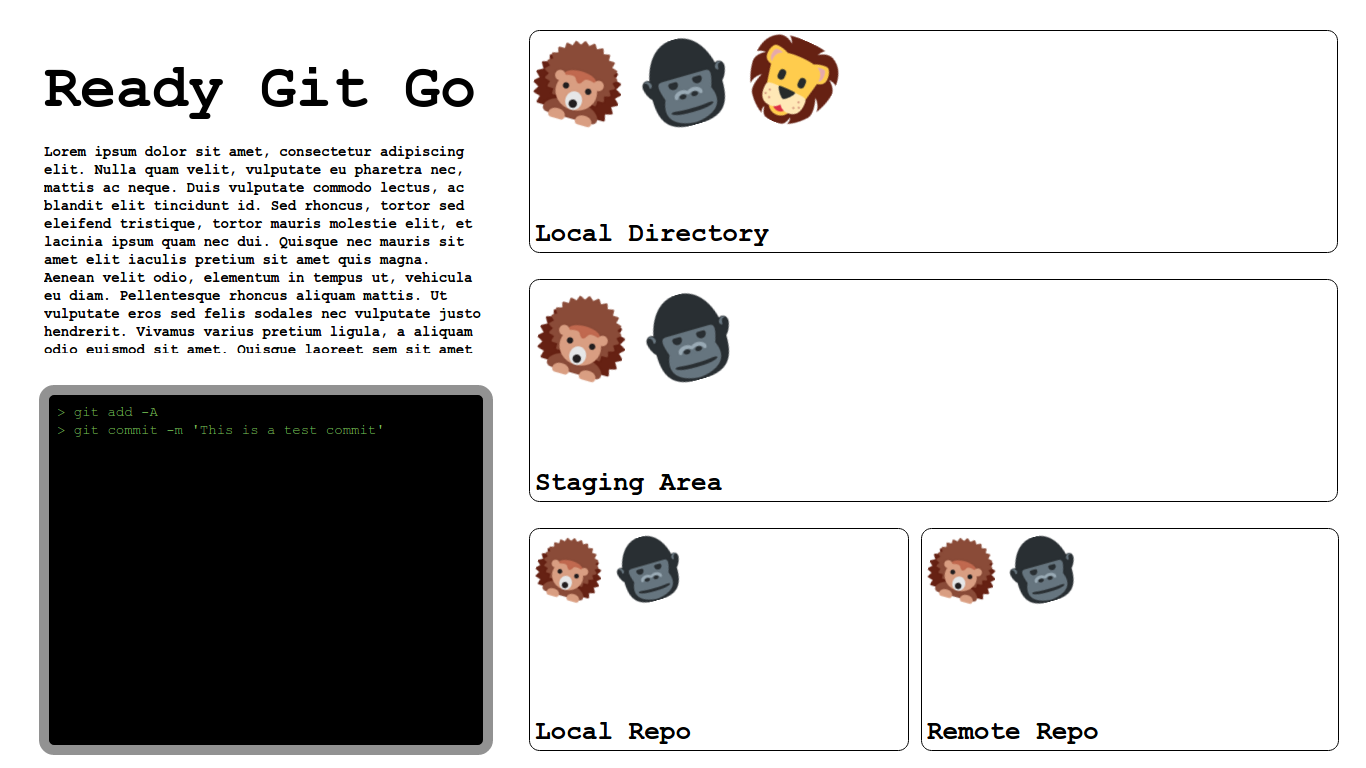
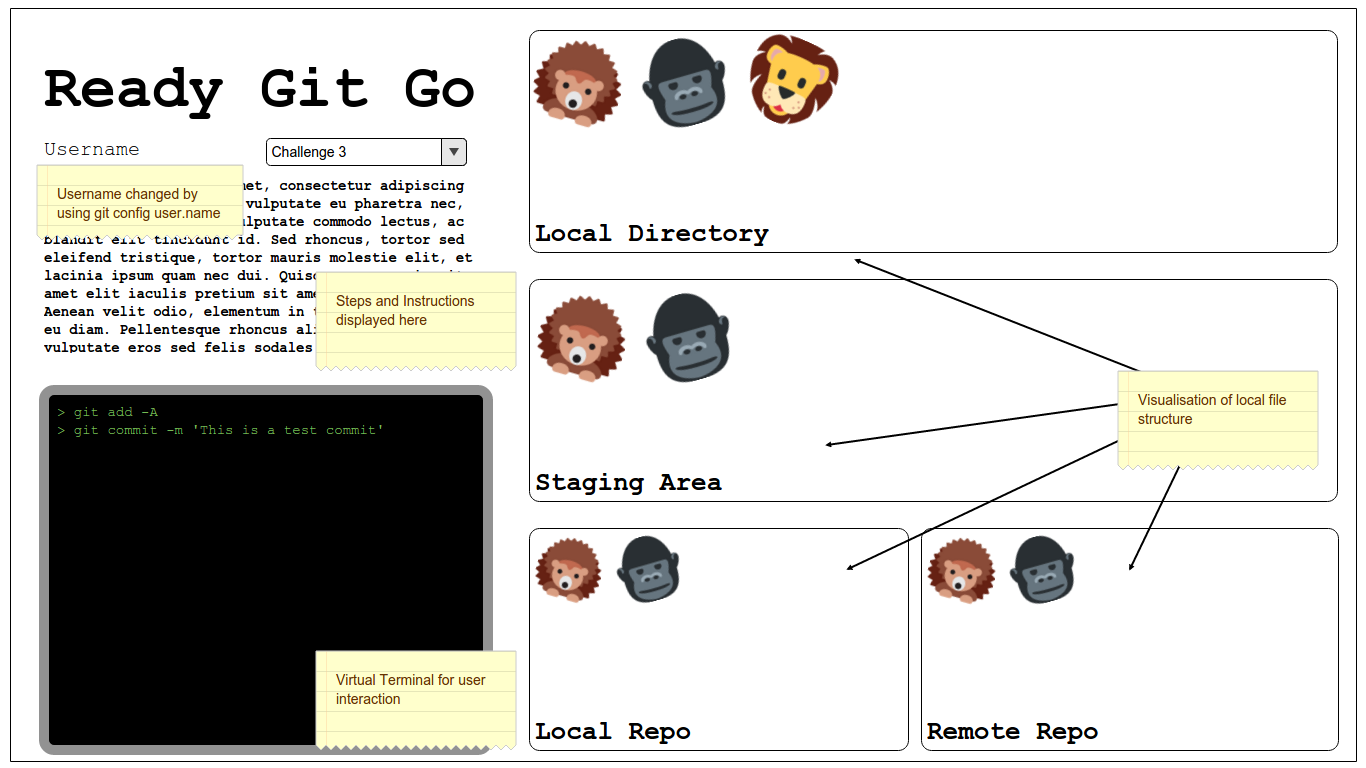
Update Wireframe image

diff --git a/README.md b/README.md
@@ -1,5 +1,5 @@
 # Ready Git Go - Learn Git Quick
----
+
 ## Background and Overview
 
 Ready Git Go is a game about git. The game is meant to teach users the basic concepts and terminal commands to get started with git, inspired by similar games like [Flexbox Froggies](http://flexboxfroggy.com/) and [Grid Garden](http://cssgridgarden.com/).
